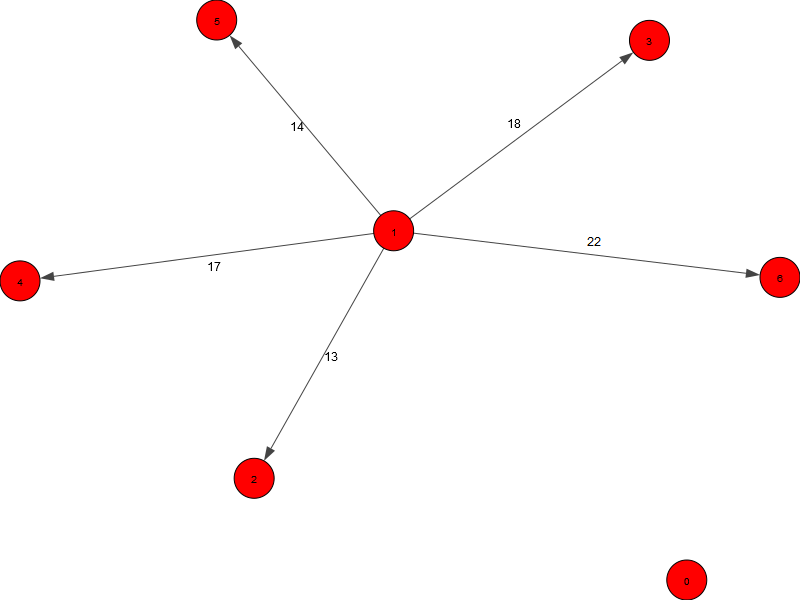
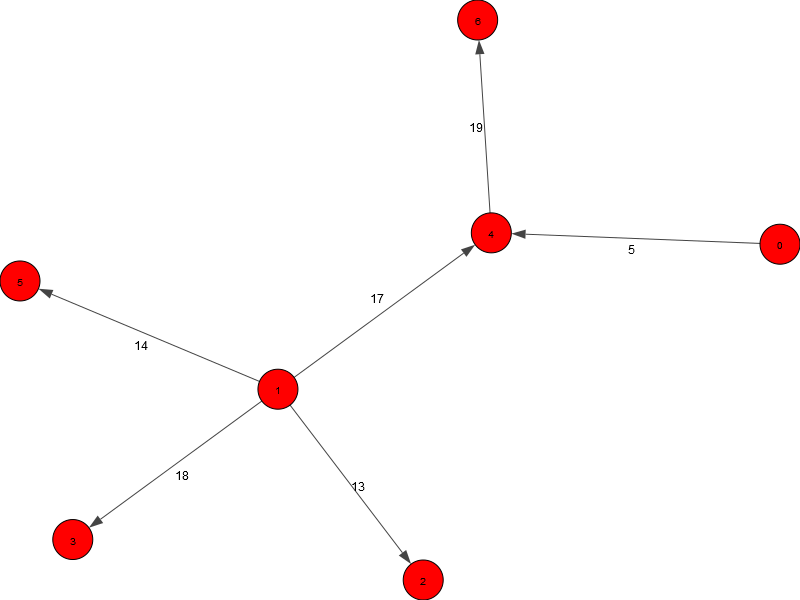
lab 2 done

diff --git a/constructionAndAnalysisOfGraphModels/secondLab/secondLab.py b/constructionAndAnalysisOfGraphModels/secondLab/secondLab.py
@@ -1,5 +1,3 @@
-import math
-
 import igraph
 import numpy as np
 import time
@@ -9,11 +7,11 @@ import matplotlib.pyplot as plt
 # список смежности графа имеет вид - (вес ребра, вершина 1, вершина 2)
 
 # Тестовый граф
-matrix_smez_test_graph = np.array([np.array([0, 0, 0, 0, 0, 0, 0]),
+matrix_smez_test_graph = np.array([np.array([0, 0, 0, 0, 5, 0, 0]),
                                    np.array([0, 0, 13, 18, 17, 14, 22]),
                                    np.array([0, 0, 0, 26, 0, 22, 0]),
                                    np.array([0, 0, 0, 0, 0, 0, 0]),
-                                   np.array([5, 0, 0, 0, 0, 0, 19]),
+                                   np.array([0, 0, 0, 0, 0, 0, 19]),
                                    np.array([0, 0, 0, 0, 0, 0, 0]),
                                    np.array([0, 0, 0, 0, 0, 0, 0])])
 print('Размер матрицы: ', getsizeof(matrix_smez_test_graph))
@@ -56,7 +54,7 @@ def record_array(matrix):
 
 # Функция записи списка смежности для тестовой матрицы из первой лабораторной
 def list_smezh(matrix):
-	lst_smz = [(math.inf, -1, -1)]
+	lst_smz = []
 	for i in range(len(matrix)):
 		for j in range(len(matrix[i])):
 			if matrix[i][j] != 0:
@@ -81,28 +79,11 @@ def plot_graf(rec_array, R, name):
 times = []
 
 
-def get_min(R, U):
-	rm = (math.inf, -1, -1)
-	for v in U:
-		rr = min(R, key=lambda x: x[0] if (x[1] == v or x[2] == v) and (x[1] not in U or x[2] not in U) else math.inf)
-		if rm[0] > rr[0]:
-			rm = rr
-		return rm
-
-def mod_alg(rec_array, R, U, T):
-	while len(U) < rec_array[-1]['Номер'] + 1:
-		r = get_min(R, U)
-		if r[0] == math.inf:
-			break
-		T.append(r)
-		U.add(r[1])
-		U.add(r[2])
-
 # Алгоритм Краскала
 def alg(Rs, U, D, T):
 	start_time = time.time()
 	for r in Rs:
-		if r[1] not in U or r[2] not in U:  # проверка для исключения циклов в остове
+		if r[1] not in U or r[2] not in U or r[2] not in D[r[1]]:  # проверка для исключения циклов в остове
 			if r[1] not in U and r[2] not in U:  # если обе вершины не соединены, то
 				D[r[1]] = [r[1], r[2]]  # формируем в словаре ключ с номерами вершин
 				D[r[2]] = D[r[1]]  # и связываем их с одним и тем же списком вершин
@@ -117,17 +98,18 @@ def alg(Rs, U, D, T):
 			T.append(r)  # добавляем ребро в остов
 			U.add(r[1])  # добавляем вершины в множество U
 			U.add(r[2])
-			print(D)
-			print(T)
+	# print(T)
 	# for r in Rs:  # проходим по ребрам второй раз и объединяем разрозненные группы вершин
-	#     if r[2] not in D[r[1]]:  # если вершины принадлежат разным группам, то объединяем
-	#         T.append(r)  # добавляем ребро в остов
-	#         print(D[r[2]], D[r[1]])
-	#         gr1 = D[r[1]]
-	#         D[r[1]] += D[r[2]]  # объединем списки двух групп вершин
-	#         D[r[2]] += gr1
-
-	print(T)
+	# 	if r[2] not in D[r[1]]:  # если вершины принадлежат разным группам, то объединяем
+	# 		T.append(r)  # добавляем ребро в остов
+	# 		# print(D[r[2]], D[r[1]])
+	# 		print(D)
+	# 		gr1 = D[r[1]]
+	# 		D[r[1]] += D[r[2]]  # объединем списки двух групп вершин
+	# 		D[r[2]] += gr1
+	# 		print(D)
+	# print(D)
+	# print(T)
 	# exec_time = time.time() - start_time
 	# times.append(exec_time * 1000)
 
@@ -150,22 +132,14 @@ def list_smezh_array(rec_array):
 	return lst_smz
 
 
-
-rec_array = record_array(matrix_smez_test_graph)
 List_smezh_dlya_test_graph = list_smezh(matrix_smez_test_graph)
 Sorted_list_smezh = sorted(List_smezh_dlya_test_graph, key=lambda x: x[0])
 U = set()  # список соединенных вершин
 D = {}  # словарь списка изолированных групп вершин
 T = []  # список ребер остова
 
-U_mod = {1}
-T1 = []
-mod_alg(rec_array, List_smezh_dlya_test_graph, U_mod, T)
-
-# alg(Sorted_list_smezh, U, D, T)
-print(T)
-del List_smezh_dlya_test_graph[0]
-#
+alg(Sorted_list_smezh, U, D, T)
+rec_array = record_array(matrix_smez_test_graph)
 plot_graf(rec_array, T, 'Тестовый_граф_после_сортировки')
 plot_graf(rec_array, List_smezh_dlya_test_graph, 'Тестовый_граф')
 
